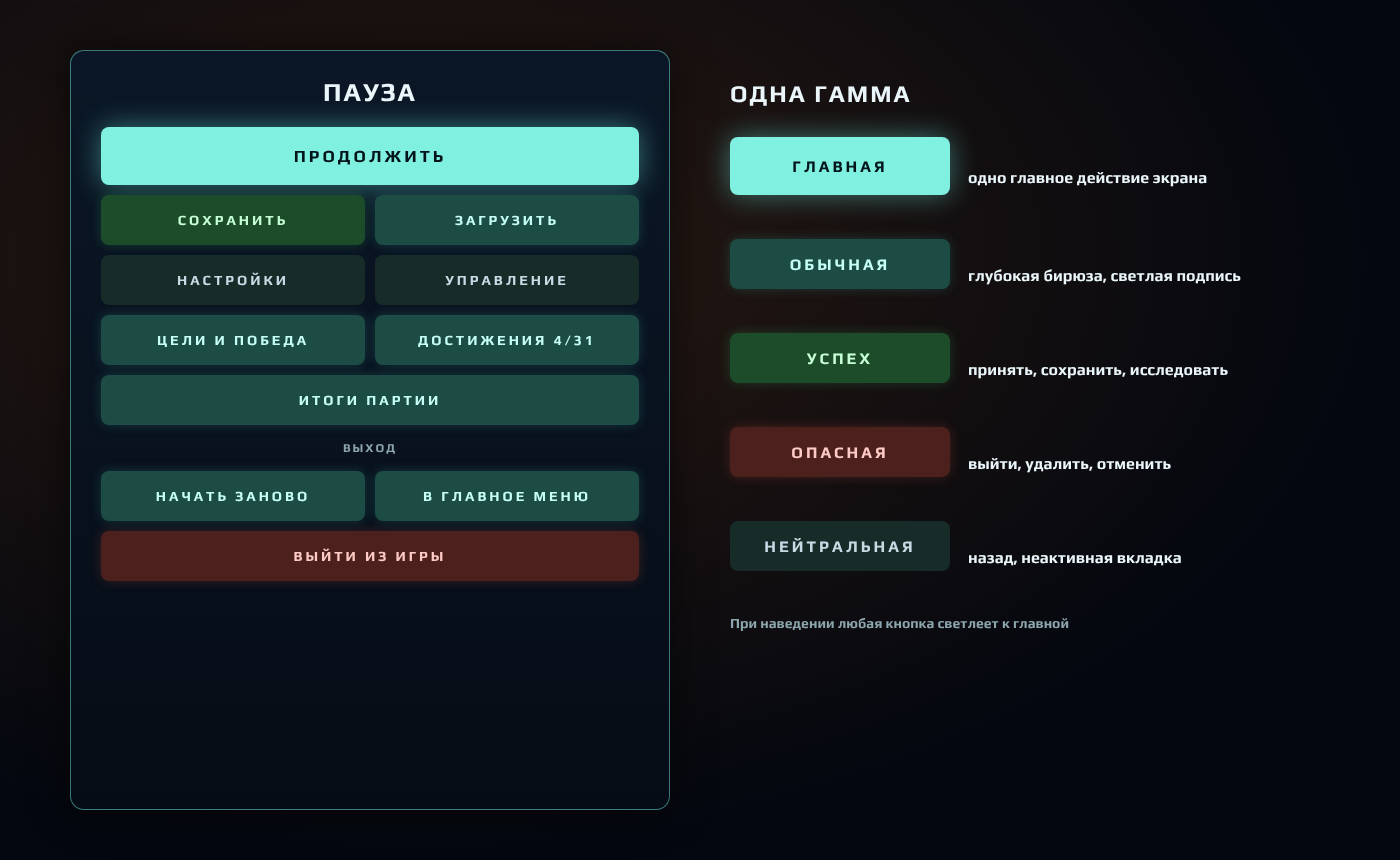
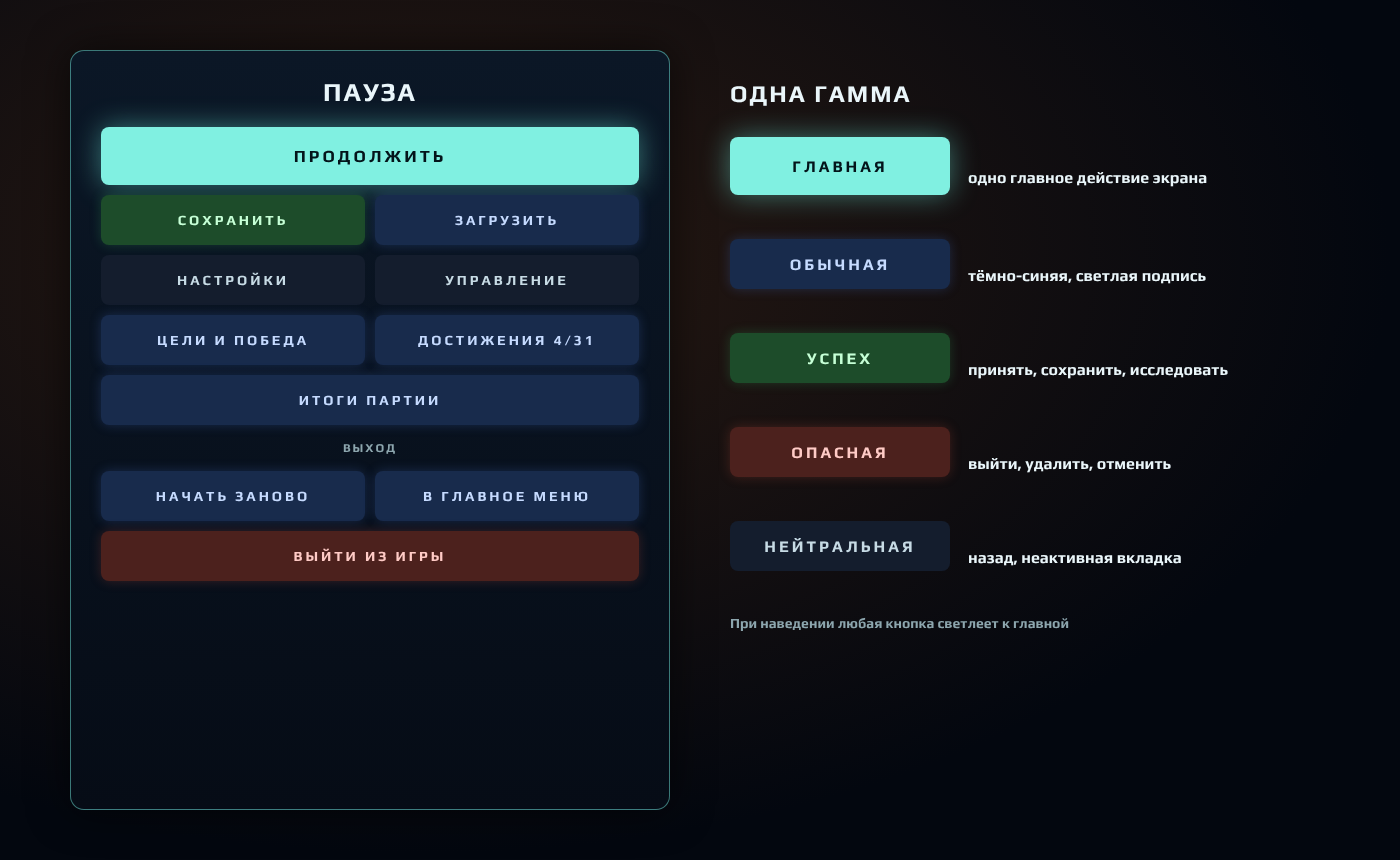
Обычные и нейтральные кнопки — тёмно-синие, в тон интерфейса; главная остаётся яркой бирюзой
Claude-Session: https://claude.ai/code/session_01MBQ4JGpUh1c6nHPDeTgt1b

diff --git a/Tools/menu_mock/buttons.html b/Tools/menu_mock/buttons.html
@@ -9,8 +9,8 @@ body { width: 1400px; height: 860px; background: radial-gradient(ellipse at 30% 
 .b { height: 50px; border-radius: 8px; display:grid; place-items:center; font-weight:700; font-size:14px; letter-spacing:3px; position:relative; overflow:hidden; }
 .w { grid-column: span 2; }
 .p { background:#80F0E1; color:#03141A; box-shadow:0 0 28px rgba(110,240,225,0.45); height:58px; font-size:17px; }
-.s { background:#1D4C45; color:#C6FFF6; box-shadow:0 0 12px rgba(60,170,160,0.25); }
-.q { background:#172B28; color:#C7DBE5; }
+.s { background:#182B4C; color:#C6DBFF; box-shadow:0 0 12px rgba(70,110,200,0.28); }
+.q { background:#141D2D; color:#C7DBE5; }
 .r { background:#4C211D; color:#FFCBC6; box-shadow:0 0 12px rgba(200,80,60,0.25); }
 .gr { background:#1D4C2A; color:#C6FFD6; box-shadow:0 0 12px rgba(60,200,110,0.22); }
 .sep { grid-column: span 2; text-align:center; color:#8DA6AE; font-size:12px; letter-spacing:2px; margin:6px 0; }
@@ -28,7 +28,7 @@ body { width: 1400px; height: 860px; background: radial-gradient(ellipse at 30% 
 <div class="b r w">ВЫЙТИ ИЗ ИГРЫ</div></div></div>
 <div class="leg" style="padding-top:30px"><div style="font-size:24px;font-weight:700;letter-spacing:2px;margin-bottom:30px">ОДНА ГАММА</div>
 <div><div class="b p">ГЛАВНАЯ</div>одно главное действие экрана</div>
-<div><div class="b s">ОБЫЧНАЯ</div>глубокая бирюза, светлая подпись</div>
+<div><div class="b s">ОБЫЧНАЯ</div>тёмно-синяя, светлая подпись</div>
 <div><div class="b gr">УСПЕХ</div>принять, сохранить, исследовать</div>
 <div><div class="b r">ОПАСНАЯ</div>выйти, удалить, отменить</div>
 <div><div class="b q">НЕЙТРАЛЬНАЯ</div>назад, неактивная вкладка</div>

diff --git a/Assets/Scripts/UI/LiquidGlass/LGGameButton.cs b/Assets/Scripts/UI/LiquidGlass/LGGameButton.cs
@@ -6,7 +6,7 @@ namespace StellarisClone.Rendering
     /// <summary>
     /// Единый дизайн кнопок игры — тот же, что у главной кнопки (<see cref="MenuPrimaryButton"/>): сплошная заливка
     /// со свечением, прямоугольник со скруглением 8 px, подпись капслоком по центру, пробегающий блик.
-    /// Гамма одна: главная кнопка — яркая бирюза с тёмной подписью; обычные — глубокая бирюза со светлой подписью
+    /// Гамма одна: главная кнопка — яркая бирюза с тёмной подписью; обычные — тёмно-синие со светлой подписью
     /// (при наведении светлеют к главной); от неё отличаются только смысловые цвета — опасное (красная) и
     /// успешное (зелёная) действие, тоже глубокие. Нейтральные («Назад», неактивная вкладка) — почти тёмные.
     /// Недоступная — тусклая серая. Без радуги на одном экране.
@@ -44,7 +44,7 @@ namespace StellarisClone.Rendering
         }
 
         /// <summary>
-        /// Оттенок кнопки: красный (опасное) и зелёный (успех) сохраняются, всё остальное — бирюза главной кнопки.
+        /// Оттенок кнопки: красный (опасное) и зелёный (успех) сохраняются, всё остальное — тёмно-синий тон интерфейса.
         /// </summary>
         private static float HueOf(Color accent)
         {
@@ -55,7 +55,7 @@ namespace StellarisClone.Rendering
             return Teal;
         }
 
-        private const float Teal = 0.475f;
+        private const float Teal = 0.605f;   // тёмно-синий — тон всего интерфейса
 
         /// <summary>Нейтральная кнопка («Назад», неактивная вкладка) — тише обычной: почти тёмная заливка.</summary>
         private static bool Quiet(Color accent)
@@ -68,9 +68,10 @@ namespace StellarisClone.Rendering
         private static Color FillOf(Color accent, float hover)
         {
             float h = HueOf(accent);
-            if (Quiet(accent)) return Color.Lerp(Color.HSVToRGB(h, 0.45f, 0.17f), Color.HSVToRGB(h, 0.55f, 0.32f), hover);
-            var deep = Color.HSVToRGB(h, 0.62f, 0.30f);
-            var lit = Color.HSVToRGB(h, 0.55f, 0.50f);
+            if (Quiet(accent)) return Color.Lerp(Color.HSVToRGB(h, 0.55f, 0.18f), Color.HSVToRGB(h, 0.62f, 0.32f), hover);
+            bool navy = Mathf.Approximately(h, Teal);
+            var deep = navy ? Color.HSVToRGB(h, 0.68f, 0.30f) : Color.HSVToRGB(h, 0.62f, 0.30f);
+            var lit = navy ? Color.HSVToRGB(h, 0.62f, 0.48f) : Color.HSVToRGB(h, 0.55f, 0.50f);
             return Color.Lerp(deep, lit, hover);
         }
 
